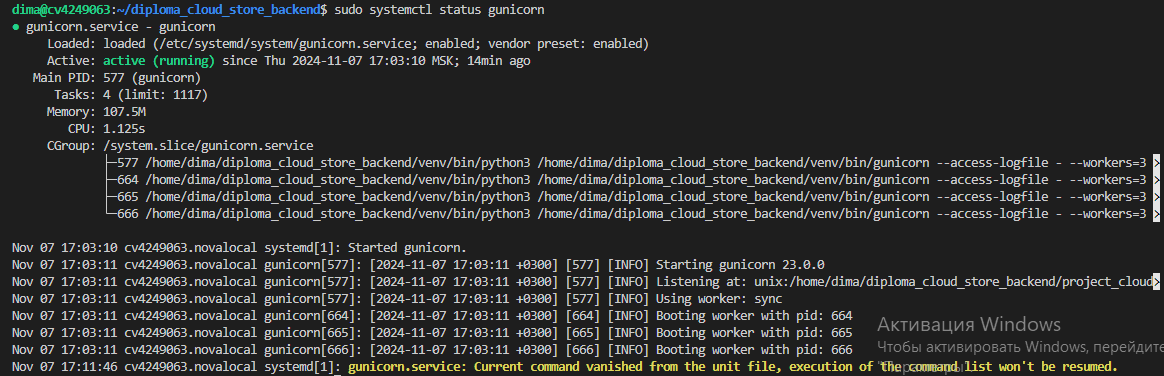
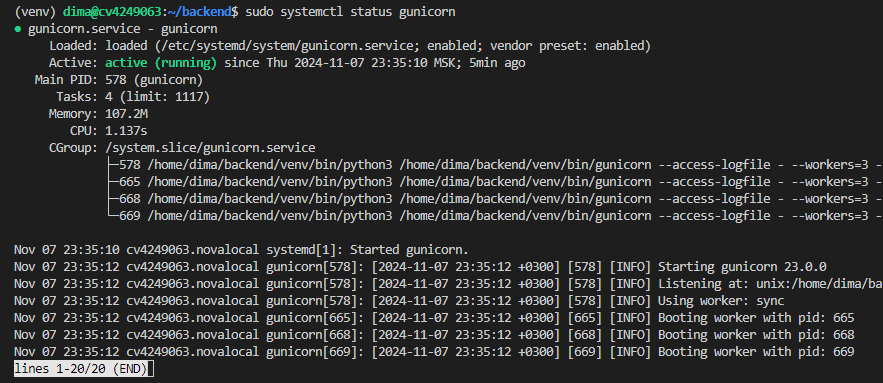
обновление readme

Changed region(s): [[0.0, 0.6144, 1.0, 1.0], [0.0, 0.0, 1.0, 0.5851]]

diff --git a/README.md b/README.md
@@ -209,23 +209,7 @@ python manage.py migrate
 
 ![migrate](/pic/migrate.png)
 
-19. Добавьте пользовательские модели для базы данных:
-```bash
-python manage.py makemigrations
-```
-- *Пример:*
-
-![makemigrations](/pic/migration.png)
-
-20. Повторите миграцию для базы данных:
-```bash
-python manage.py migrate
-```
-- *Пример:*
-
-![migrate](/pic/second-migrate.png)
-
-21. Добавьте первого пользователя в базу данных (он же будет администратором) из файла users.json:
+19.  Добавьте первого пользователя в базу данных (он же будет администратором) из файла users.json:
 ```bash
 python manage.py loaddata users.json
 ```
@@ -233,7 +217,7 @@ python manage.py loaddata users.json
 
 ![loaddata](/pic/load.png)
 
-22. Настройте gunicorn. Выполните следующие действия:
+20. Настройте gunicorn. Выполните следующие действия:
     1. Создайте файл `gunicorn.service`, введите команду:
     ```bash
     sudo nano /etc/systemd/system/gunicorn.service
@@ -254,7 +238,7 @@ python manage.py loaddata users.json
     User=dima
     Group=www-data
     WorkingDirectory=/home/dima/backend
-    ExecStart=/home/dima/backend/project_cloud_storage/venv/bin/gunicorn --access-logfile -\
+    ExecStart=/home/dima/backend/venv/bin/gunicorn --access-logfile -\
         --workers=3 \
         --bind unix:/home/dima/backend/project_cloud_storage/project.sock project_cloud_storage.wsgi:application
 
@@ -266,7 +250,7 @@ python manage.py loaddata users.json
 
     ![gunicorn настройки](/pic/nano-full.png)
 
-    1.  Запустите gunicorn введя команду:
+    3.  Запустите gunicorn введя команду:
     ```bash
     sudo systemctl start gunicorn
     ```
@@ -294,7 +278,15 @@ python manage.py loaddata users.json
     ![Статус gunicorn](/pic/status-gunicorn.png)
     Настройка gunicorn на этом завершена.
 
-23. Скопируйте репозиторий для клиентской части в корень вашего сервера:
+21. Выйти из папки backend, введите команду:
+```bash
+cd ..
+```
+- *Пример:*
+
+![Выход из папки](/pic/exit-backend.png)
+
+22. Скопируйте репозиторий для клиентской части в корень вашего сервера:
 ```bash
 git clone https://github.com/darknessdizi/diploma_cloud_store.git fronted
 ```
@@ -302,7 +294,7 @@ git clone https://github.com/darknessdizi/diploma_cloud_store.git fronted
 
 ![Копирование fronted](/pic/clone-fronted.png)
 
-24. Настройте nginx. Выполните следующие действия:  
+23. Настройте nginx. Выполните следующие действия:  
     1. Создать новый файл конфигурации:
     ```bash
     sudo nano /etc/nginx/sites-available/cloud-storage
